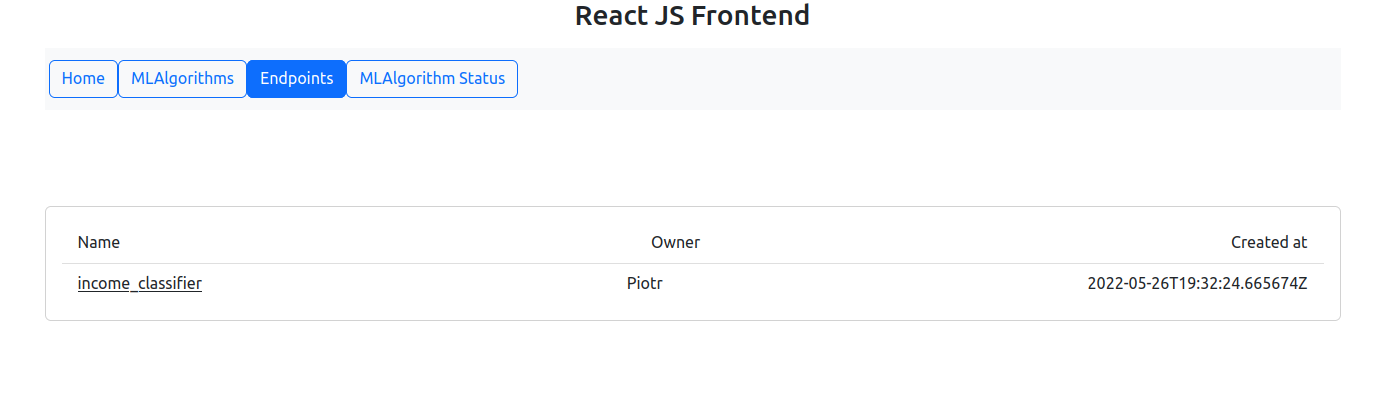
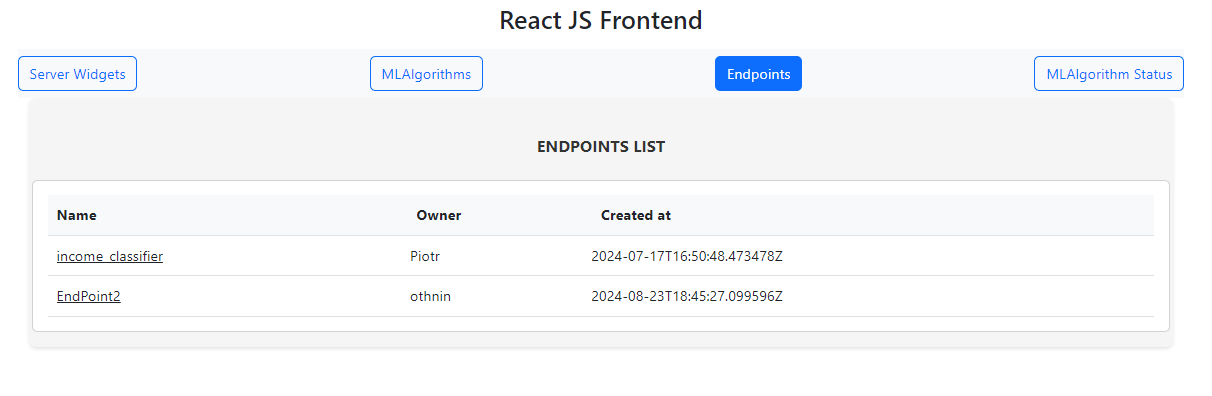
Better documentation and screen shots

diff --git a/README.md b/README.md
@@ -49,8 +49,8 @@ in backend/server/apps/ml/<projectname>. The example we have loaded is income_cl
 
 ## Screenshots and Explanations:
 
-![alt text](docs/ML_home.png)
-Put whatever information here is handy 
+![alt text](docs/ML_sever_widgets.png)
+This page has a drop down where different widgets that show the status of ther server can be displayed. Unfortunaetly, my server NVIDIA card driver situation has gone awry so the GPU data is lacking. 
 
 
 ![alt text](docs/ML_MLAlgorithms.png)
